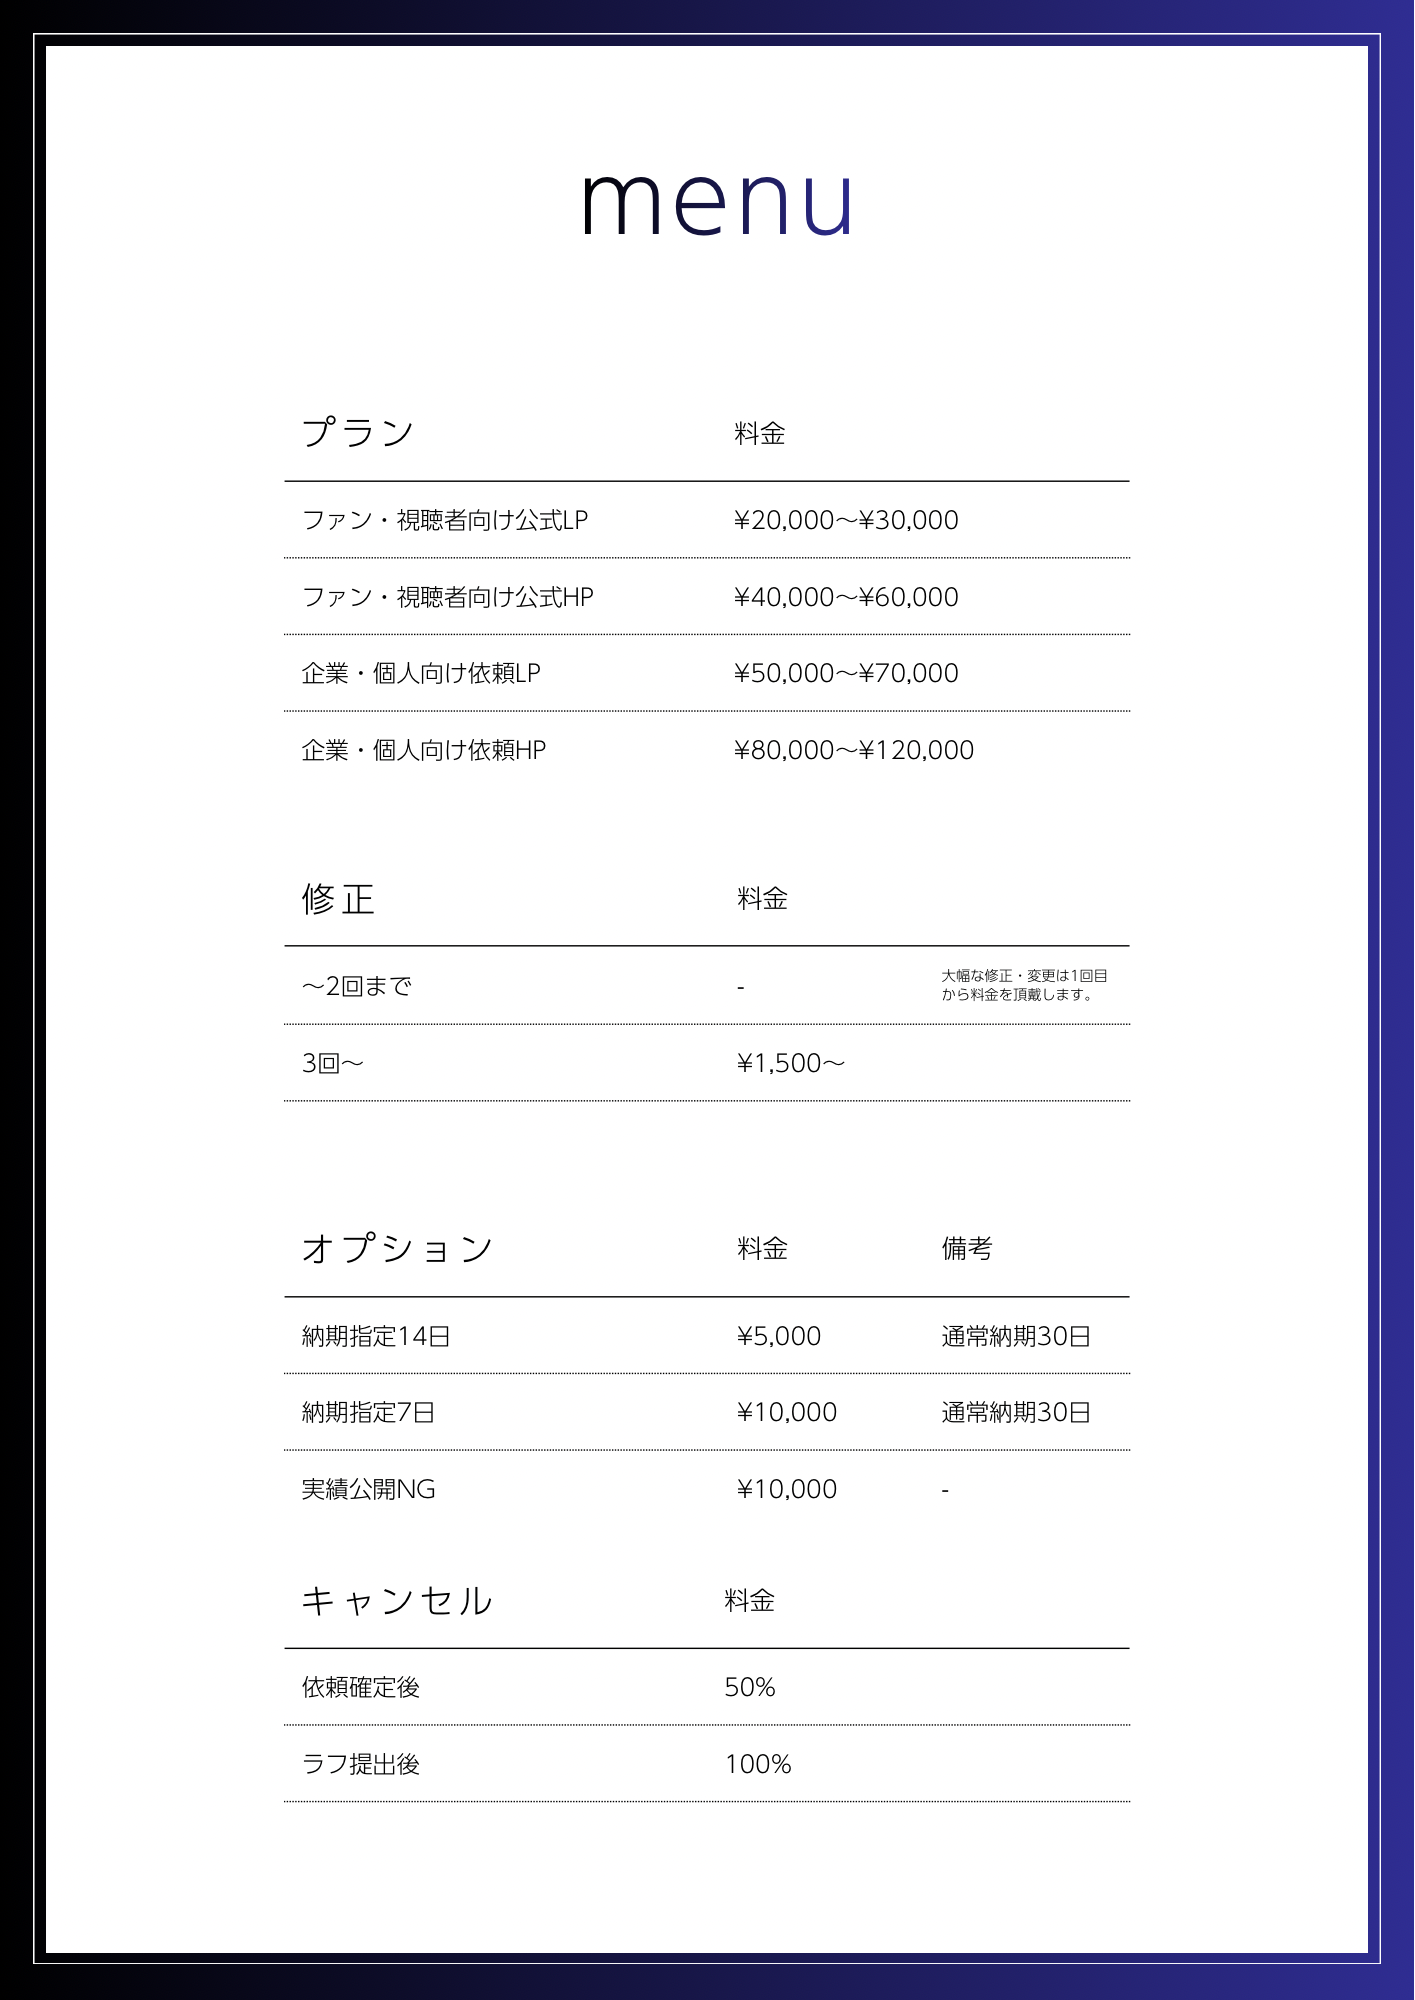
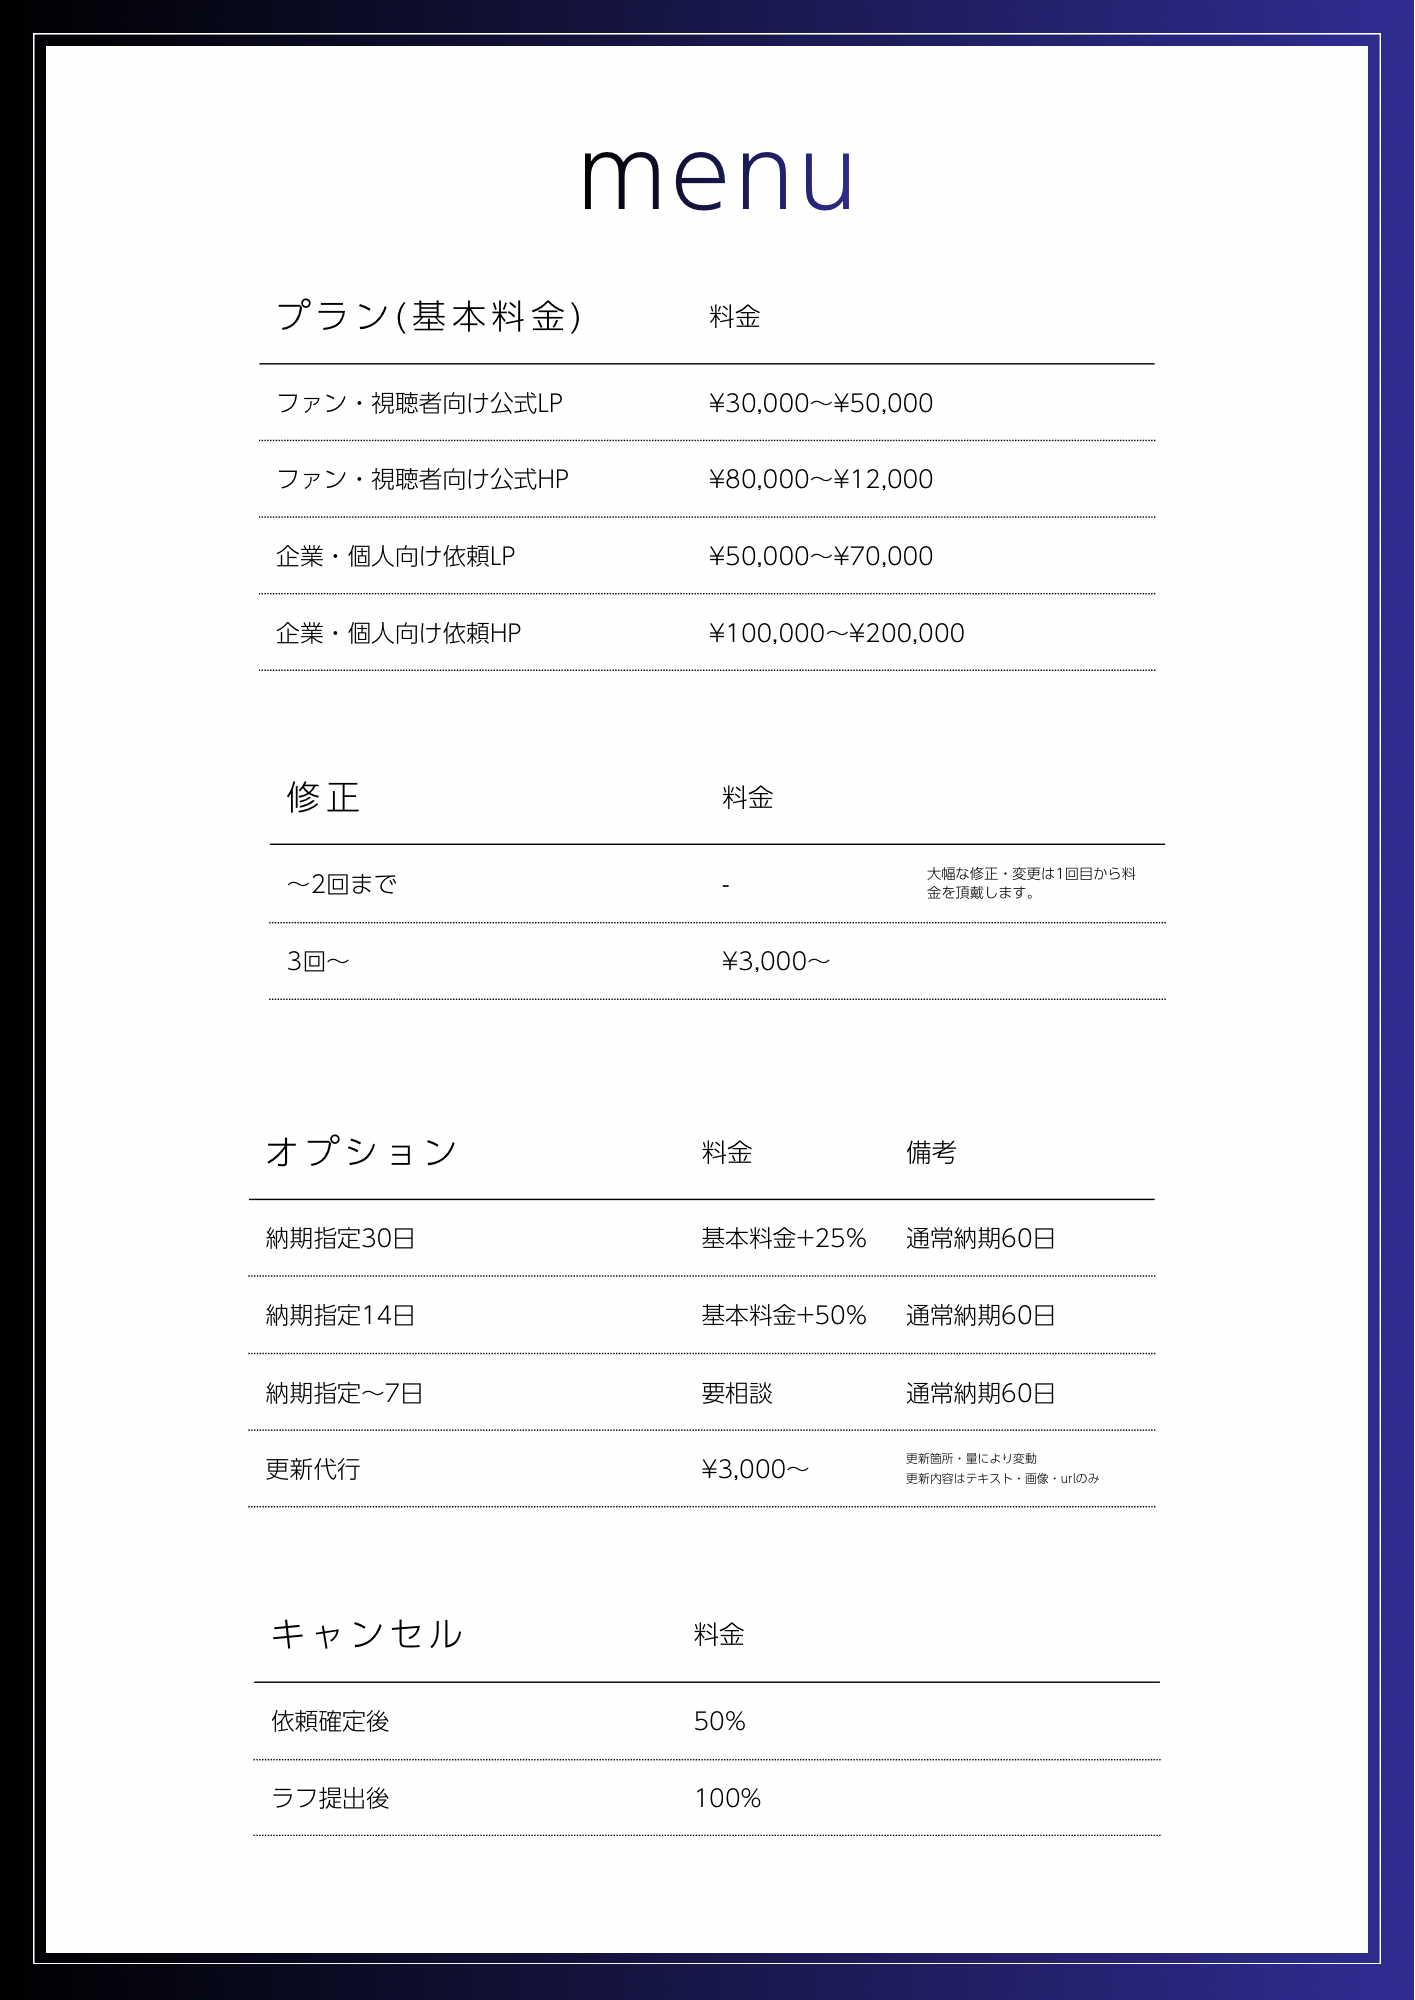
Add files via upload

diff --git a/terms.html b/terms.html
@@ -449,18 +449,30 @@ footer{
       </ul>
     </details>
 
-    <details class="important">
+  <details class="important">
   <summary>⚠ Important（必読）</summary>
-      <ul class="warning">
-        <li><b>値下げ交渉不可</b></li>
-        <li><b>途中でのジャンル変更不可</b></li>
-      <li><b>返金を伴うキャンセルが発生した場合、返金先情報のご連絡は7日以内にお願いいたします。
-期限内にご連絡が確認できない場合、返金対応を行えない可能性があります。</b></li>
-        <li><b>返信が5日以上ない場合は案件停止（キャンセル扱い）</b></li>
-      </ul>
 
-    </details>
+  <ul class="warning">
 
+    <li><b>
+      ご依頼・お見積もり・ご相談のご連絡をいただいた時点で、
+      本ページ記載の利用規約および注意事項に同意いただいたものとみなします。
+    </b></li>
+
+<li><b>
+規約未確認を理由とした異議申し立てには対応いたしかねます。
+</b></li>
+
+    <li><b>値下げ交渉不可</b></li>
+
+    <li><b>途中でのジャンル変更不可</b></li>
+
+    <li><b>
+      返信が5日以上ない場合は案件停止（キャンセル扱い）
+    </b></li>
+
+  </ul>
+</details>
   </div>
 </section>
 

diff --git a/process.html b/process.html
@@ -325,20 +325,22 @@ footer{
       </p>
     </div>
 
-    <div class="process-card fade-in">
-      <span class="step">STEP 05</span>
-      <h3>納品</h3>
-     <p>
-  最終確認後、納品となります。<br><br>
+   <div class="process-card fade-in">
+  <span class="step">STEP 05</span>
 
-  納品後のデータ管理・保管は
-  ご依頼者様ご自身でお願いいたします。<br><br>
+  <h3>納品</h3>
 
-  納品後に発生したデータの破損・消失につきましては、
-  責任を負いかねますのでご了承ください。
-</p>
-    </div>
+  <p>
+    最終確認後、納品となります。<br><br>
 
+    ・納品内容：サイトデータ一式（ZIP形式/ギガファイル便にて納品）<br>
+    ・Github・Vercelを利用した公開マニュアル（PDF）を付属いたします。<br>
+    ・マニュアルに記載のない内容や外部サービス固有の操作方法についてはサポート対象外となります。<br><br>
+
+    納品後のデータ管理・保管はご依頼者様ご自身でお願いいたします。<br>
+    納品後に発生したデータの破損・消失につきましては、責任を負いかねますのでご了承ください。
+  </p>
+</div>
   </div>
 
 </section>

diff --git a/portfolio.html b/portfolio.html
@@ -277,7 +277,7 @@ footer{
 
         <h3>サンプル1</h3>
 
-        <p>ジャンル：歌い手</p>
+        <p>歌い手</p>
 
         <p>制作物：Official Site（LP）</p>
 
@@ -297,12 +297,12 @@ footer{
 
         <h3>サンプル2</h3>
 
-        <p>サンプルデザイン</p>
+        <p>歌い手</p>
 
-        <p>架空案件として制作</p>
+        <p>制作物：Official Site（LP）</p>
 
-        <a href="#">
-          Coming Soon
+        <a href="https://harukawa.vercel.app/" target="_blank">
+          Site View →
         </a>
 
       </div>
@@ -317,12 +317,12 @@ footer{
 
         <h3>サンプル3</h3>
 
-        <p>サンプルデザイン</p>
+        <p>クリエイター</p>
 
-        <p>架空案件として制作</p>
+        <p>制作物：Official Site（HP）</p>
 
-        <a href="#">
-          Coming Soon
+ <a href="https://iokms-hp.vercel.app/" target="_blank">
+          Site View →
         </a>
 
       </div>
